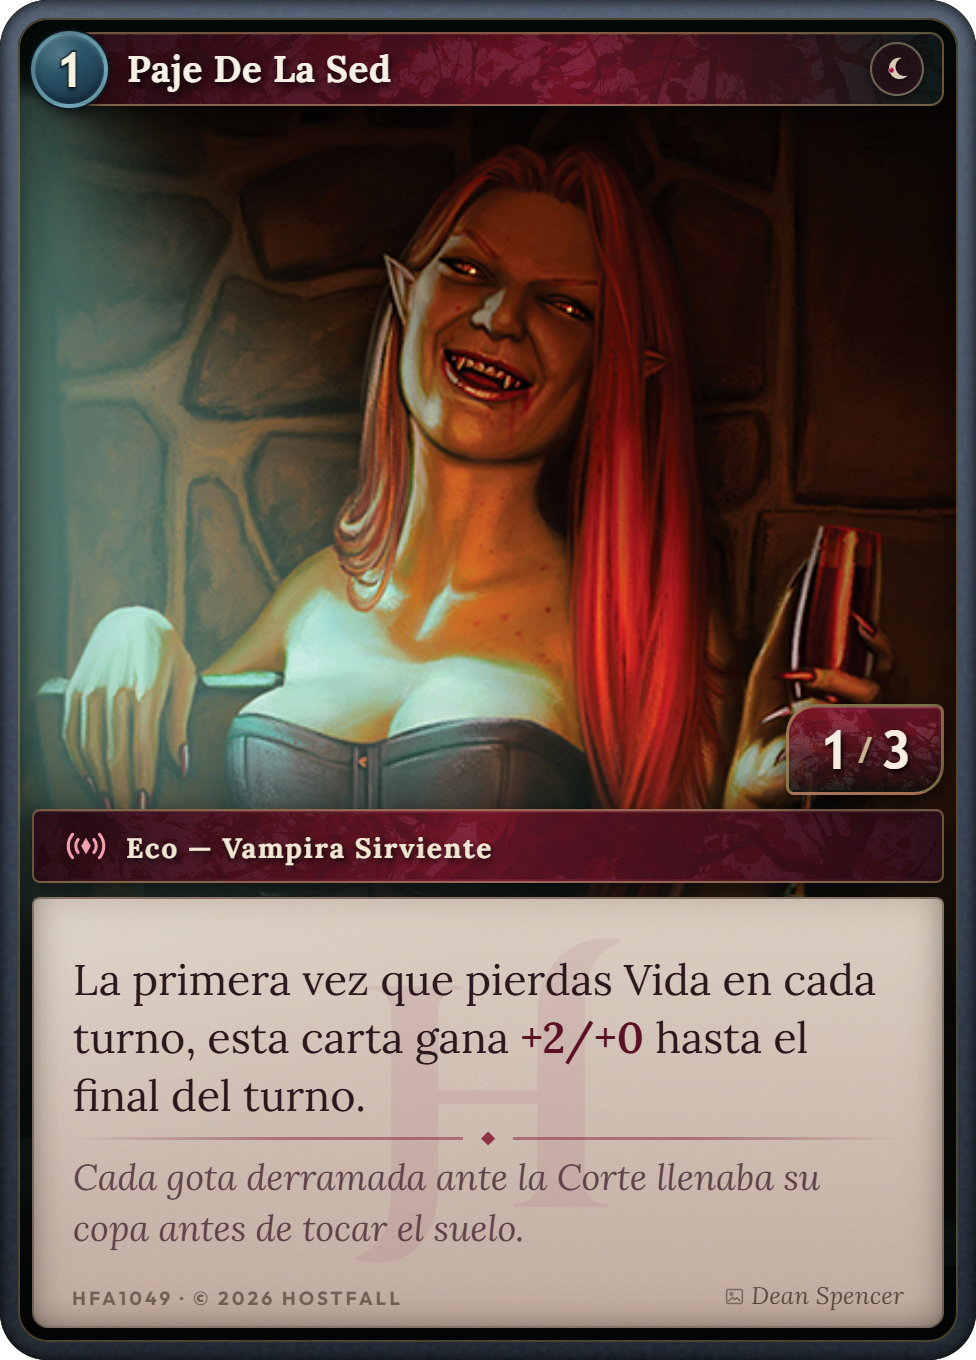
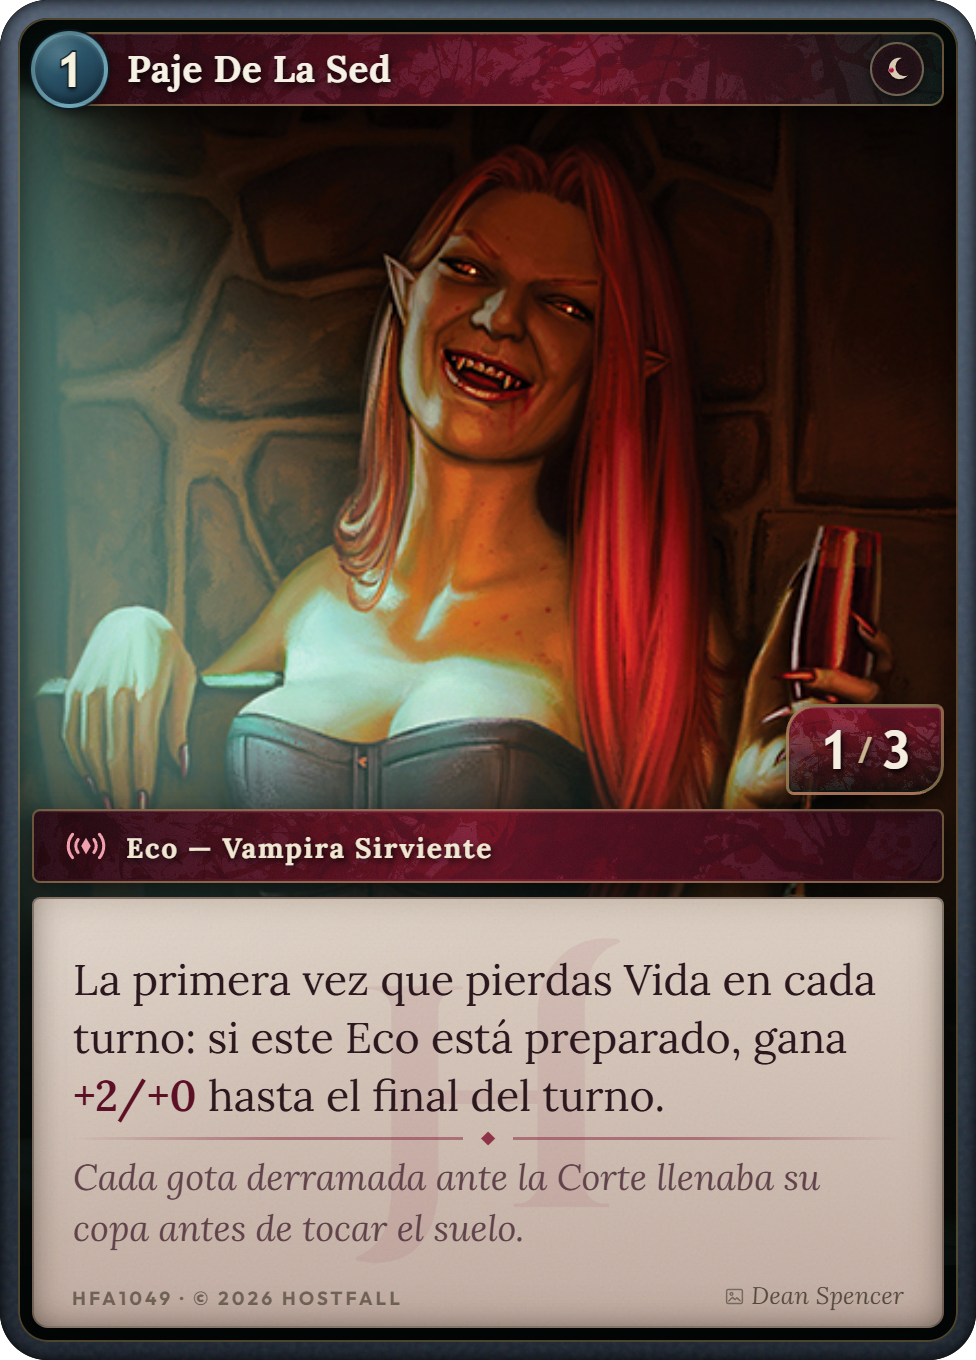
stable

Changed region(s): [[0.0615, 0.7412, 0.8607, 0.8338]]

diff --git a/dev/tools/Decks/court_of_the_crimson_eclipse/deck-data.generated.js b/dev/tools/Decks/court_of_the_crimson_eclipse/deck-data.generated.js
@@ -32,7 +32,7 @@ window.HostfallDeckData = [
     "costo": 1,
     "atk": 1,
     "def": 3,
-    "desc": "La primera vez que pierdas Vida en cada turno, esta carta gana +2/+0 hasta el final del turno.",
+    "desc": "La primera vez que pierdas Vida en cada turno: si este Eco está preparado, gana +2/+0 hasta el final del turno.",
     "lore": "Cada gota derramada ante la Corte llenaba su copa antes de tocar el suelo.",
     "showFlavorText": true,
     "cantidad": 3,
@@ -92,7 +92,7 @@ window.HostfallDeckData = [
     "costo": 3,
     "atk": 3,
     "def": 3,
-    "desc": "Una vez durante tu turno, puedes pagar 3 de Vida. Si lo haces, este Eco gana +3/+1 hasta tu próximo turno.",
+    "desc": "Una vez durante tu turno, si este Eco no está Estabilizándose: paga 3 de Vida; este Eco gana +3/+1 hasta tu próximo turno.",
     "lore": "Bajo la luna carmesí, cada reverencia deja el cuello expuesto.",
     "showFlavorText": false,
     "cantidad": 3,
@@ -113,7 +113,7 @@ window.HostfallDeckData = [
     "costo": 3,
     "atk": 2,
     "def": 4,
-    "desc": "Guardia aérea\nCuando reciba daño y sobreviva, ganas 2 de Vida.",
+    "desc": "Guardia aérea\nCuando este Eco reciba daño y sobreviva: gana 2 de Vida.",
     "lore": "Custodiaba el umbral con una certeza: toda sangre derramada terminaría regresando a la Corte.",
     "showFlavorText": true,
     "cantidad": 3,
@@ -175,7 +175,7 @@ window.HostfallDeckData = [
     "costo": 6,
     "atk": 5,
     "def": 5,
-    "desc": "Coste adicional: Paga la mitad de tu Vida.\nVolar. Alerta.\nDurante tu turno, este Eco tiene Drenar.",
+    "desc": "Coste adicional: paga la mitad de tu Vida, redondeada hacia arriba.\nVolar. Alerta.\nDurante tu turno: este Eco tiene Drenar.",
     "lore": "Mirevna siempre devuelve la sangre que le has entregado, aunque nunca provenga de las mismas venas.",
     "showFlavorText": true,
     "cantidad": 2,
@@ -197,7 +197,7 @@ window.HostfallDeckData = [
     "costo": 1,
     "atk": null,
     "def": null,
-    "desc": "Coste adicional: Paga 5 de Vida.\nRoba 2 cartas.",
+    "desc": "Coste adicional: paga 5 de Vida.\nRoba 2 cartas.",
     "lore": "Cinco latidos compran dos secretos. Ninguno regresa a su dueño.",
     "showFlavorText": true,
     "cantidad": 2,
@@ -219,7 +219,7 @@ window.HostfallDeckData = [
     "costo": 1,
     "atk": null,
     "def": null,
-    "desc": "Coste adicional: Paga 2 de Vida.\nUn aliado gana +2/+2 y Volar hasta el final del turno.",
+    "desc": "Coste adicional: paga 2 de Vida.\nElige un aliado; ese aliado gana +2/+2 y Volar hasta el final del turno.",
     "lore": "La sangre tocó el eclipse y, por un instante, recordó que alguna vez tuvo alas.",
     "showFlavorText": false,
     "cantidad": 2,
@@ -240,7 +240,7 @@ window.HostfallDeckData = [
     "costo": 2,
     "atk": null,
     "def": null,
-    "desc": "Haz 3 de daño a un Eco. Gana 2 de Vida.",
+    "desc": "Elige un Eco; inflige 3 de daño a ese Eco. Gana 2 de Vida.",
     "lore": "La Corte no desperdiciaba el dolor: hasta el último aliento podía convertirse en sustento.",
     "showFlavorText": true,
     "cantidad": 2,
@@ -261,7 +261,7 @@ window.HostfallDeckData = [
     "costo": 2,
     "atk": null,
     "def": null,
-    "desc": "Todos tus aliados ganan Drenar hasta el Final.",
+    "desc": "Todos tus aliados ganan Drenar hasta el final del turno.",
     "lore": "Mirevna no dio la orden. Bastó con que la luna se volviera roja para que toda la Corte saliera a cazar.",
     "showFlavorText": true,
     "cantidad": 1,
@@ -282,7 +282,7 @@ window.HostfallDeckData = [
     "costo": 3,
     "atk": null,
     "def": null,
-    "desc": "Destruye un enemigo. Pierdes Vida igual a su Fuerza.",
+    "desc": "Elige un enemigo; destrúyelo. Después, pierdes Vida igual a la Fuerza que tenía.",
     "lore": "Cuanto mayor era la amenaza, más sangre exigía el eclipse para borrarla.",
     "showFlavorText": true,
     "cantidad": 1,

diff --git a/tests/deckLint.test.js b/tests/deckLint.test.js
@@ -307,10 +307,27 @@ test("Vampires keep Hostfall card kinds, modifiers and traits through authored n
   );
 
   const rawById = Object.fromEntries(entry.raw.cards.map((card) => [card.id, card]));
+  const rulesById = Object.fromEntries(entry.raw.cards.map((card) => [card.id, card.gameText.es]));
   assert.deepEqual(rawById.mirevna_countess_of_the_crimson_eclipse.modifiers, ["CHRONICLE"]);
   assert.deepEqual(rawById.mirevna_countess_of_the_crimson_eclipse.traits, ["FLYING", "ALERT"]);
   assert.equal(rawById.mirevna_countess_of_the_crimson_eclipse.abilities[0].effects[0].keyword, "DRAIN");
   assert.equal(rawById.blood_page.abilities[0].conditions[1].type, "SOURCE_IS_READY");
+  assert.deepEqual(rulesById, {
+    sanctuary_of_the_red_moon: "Agota esta carta; agrega 1 de Energía.",
+    blood_page: "La primera vez que pierdas Vida en cada turno: si este Eco está preparado, gana +2/+0 hasta el final del turno.",
+    herald_of_the_eclipse: "Sin efecto adicional.",
+    midnight_collector: "Agota esta carta y paga 5 de Vida; agrega 1 de Energía.",
+    duelist_of_the_eclipse: "Una vez durante tu turno, si este Eco no está Estabilizándose: paga 3 de Vida; este Eco gana +3/+1 hasta tu próximo turno.",
+    guardian_of_the_night_threshold: "Cuando este Eco reciba daño y sobreviva: gana 2 de Vida.",
+    assassin_of_the_black_veil: "Sin efecto adicional.",
+    sentinel_of_the_lunar_eye: "Sin efecto adicional.",
+    mirevna_countess_of_the_crimson_eclipse: "Coste adicional: paga la mitad de tu Vida, redondeada hacia arriba.\nDurante tu turno: este Eco tiene Drenar.",
+    midnight_pact: "Coste adicional: paga 5 de Vida.\nRoba 2 cartas.",
+    crimson_impulse: "Coste adicional: paga 2 de Vida.\nElige un aliado; ese aliado gana +2/+2 y Volar hasta el final del turno.",
+    drain_essence: "Elige un Eco; inflige 3 de daño a ese Eco. Gana 2 de Vida.",
+    hunt_beneath_the_red_moon: "Todos tus aliados ganan Drenar hasta el final del turno.",
+    verdict_of_the_eclipse: "Elige un enemigo; destrúyelo. Después, pierdes Vida igual a la Fuerza que tenía.",
+  });
 
   const normalizedAuthoring = normalizeAuthoredDeck(entry.raw);
   const byId = Object.fromEntries(normalizedAuthoring.cards.map((card) => [card.id, card]));

diff --git a/tests/deckCardText.test.js b/tests/deckCardText.test.js
@@ -302,6 +302,11 @@ test("Card Studio removes preview chrome and focus-mode overflow", () => {
     /\.game-preview-title\s*\{[^}]*background:\s*linear-gradient\(90deg, var\(--game-title-start\) 0%, var\(--game-title-end\) 65%, var\(--game-title-end\) 100%\);/u,
     "the Studio cropped-card header must remain opaque across its full width",
   );
+  assert.match(
+    studioShell,
+    /\.game-preview\[data-deck="uprising_of_the_graveless"\]\s*\{[^}]*--game-title-start:\s*#625d6b;[^}]*--game-title-end:\s*#37323f;[^}]*--game-stat-start:\s*#777081;[^}]*--game-stat-mid:\s*#56515e;[^}]*--game-stat-end:\s*#211e28;/u,
+    "the Studio cropped Zombie card must share the game's violet-gray title and stats palette",
+  );
   assert.match(studioApp, /fullArtOverrides/u);
   assert.match(studioApp, /headerFadeOverrides/u);
   assert.match(studioApp, /battlefieldArtFrames/u);

diff --git a/dev/tools/Decks/studio.html b/dev/tools/Decks/studio.html
@@ -547,11 +547,11 @@
         }
 
         .game-preview[data-deck="uprising_of_the_graveless"] {
-            --game-title-start: #315f55;
-            --game-title-end: #1d3f37;
-            --game-stat-start: #3f7569;
-            --game-stat-mid: #315f55;
-            --game-stat-end: #102822;
+            --game-title-start: #625d6b;
+            --game-title-end: #37323f;
+            --game-stat-start: #777081;
+            --game-stat-mid: #56515e;
+            --game-stat-end: #211e28;
         }
 
         .game-preview[data-deck="legion_of_varka"] {

diff --git a/docs/chronicle_court_of_the_crimson_eclipse.md b/docs/chronicle_court_of_the_crimson_eclipse.md
@@ -1,5 +1,7 @@
 # La Corte del Eclipse Carmesí
 
+Última actualización: 2026-08-05
+
 `court_of_the_crimson_eclipse` es el deck de Cronista que convierte Vida en poder inmediato y recupera lo
 entregado mediante Drenar. Su identidad narrativa gira alrededor de Mirevna y el eclipse que
 mantiene unida a su corte.
@@ -30,3 +32,9 @@ oculta el precio hasta que Mirevna dicta el veredicto.
 - Drenar recupera Vida al hacer daño de Batalla.
 - Los ids técnicos se derivan de los nombres ingleses vigentes y los nombres visibles son los de
   esta Crónica.
+- `Paje de la Sed` sólo recibe su mejora si está preparado cuando ocurre la primera pérdida de
+  Vida del turno.
+- `Duelista del Eclipse` no puede usar su Acción mientras está Estabilizándose.
+- El coste adicional de Mirevna es la mitad de la Vida actual, redondeada hacia arriba.
+- `Drenar la Esencia` puede elegir cualquier Eco; `Impulso Carmesí` sólo puede elegir un aliado y
+  `Veredicto del Eclipse` sólo puede elegir un enemigo.

diff --git a/CLAUDE.MD b/CLAUDE.MD
@@ -121,6 +121,10 @@ Decks vigentes:
 
 Cazadores es sólo un preview de Card Studio: no tiene deck runtime ni lote final de PNG.
 
+Contratos particulares de la Corte: Paje de la Sed exige estar preparado en la primera pérdida
+de Vida del turno; Duelista del Eclipse no puede actuar mientras está Estabilizándose; Mirevna
+paga la mitad de la Vida actual redondeada hacia arriba.
+
 Chaos Mode está deprecated y oculto. Se conserva únicamente por compatibilidad y pruebas; no debe
 recibir features sin una decisión explícita.
 
